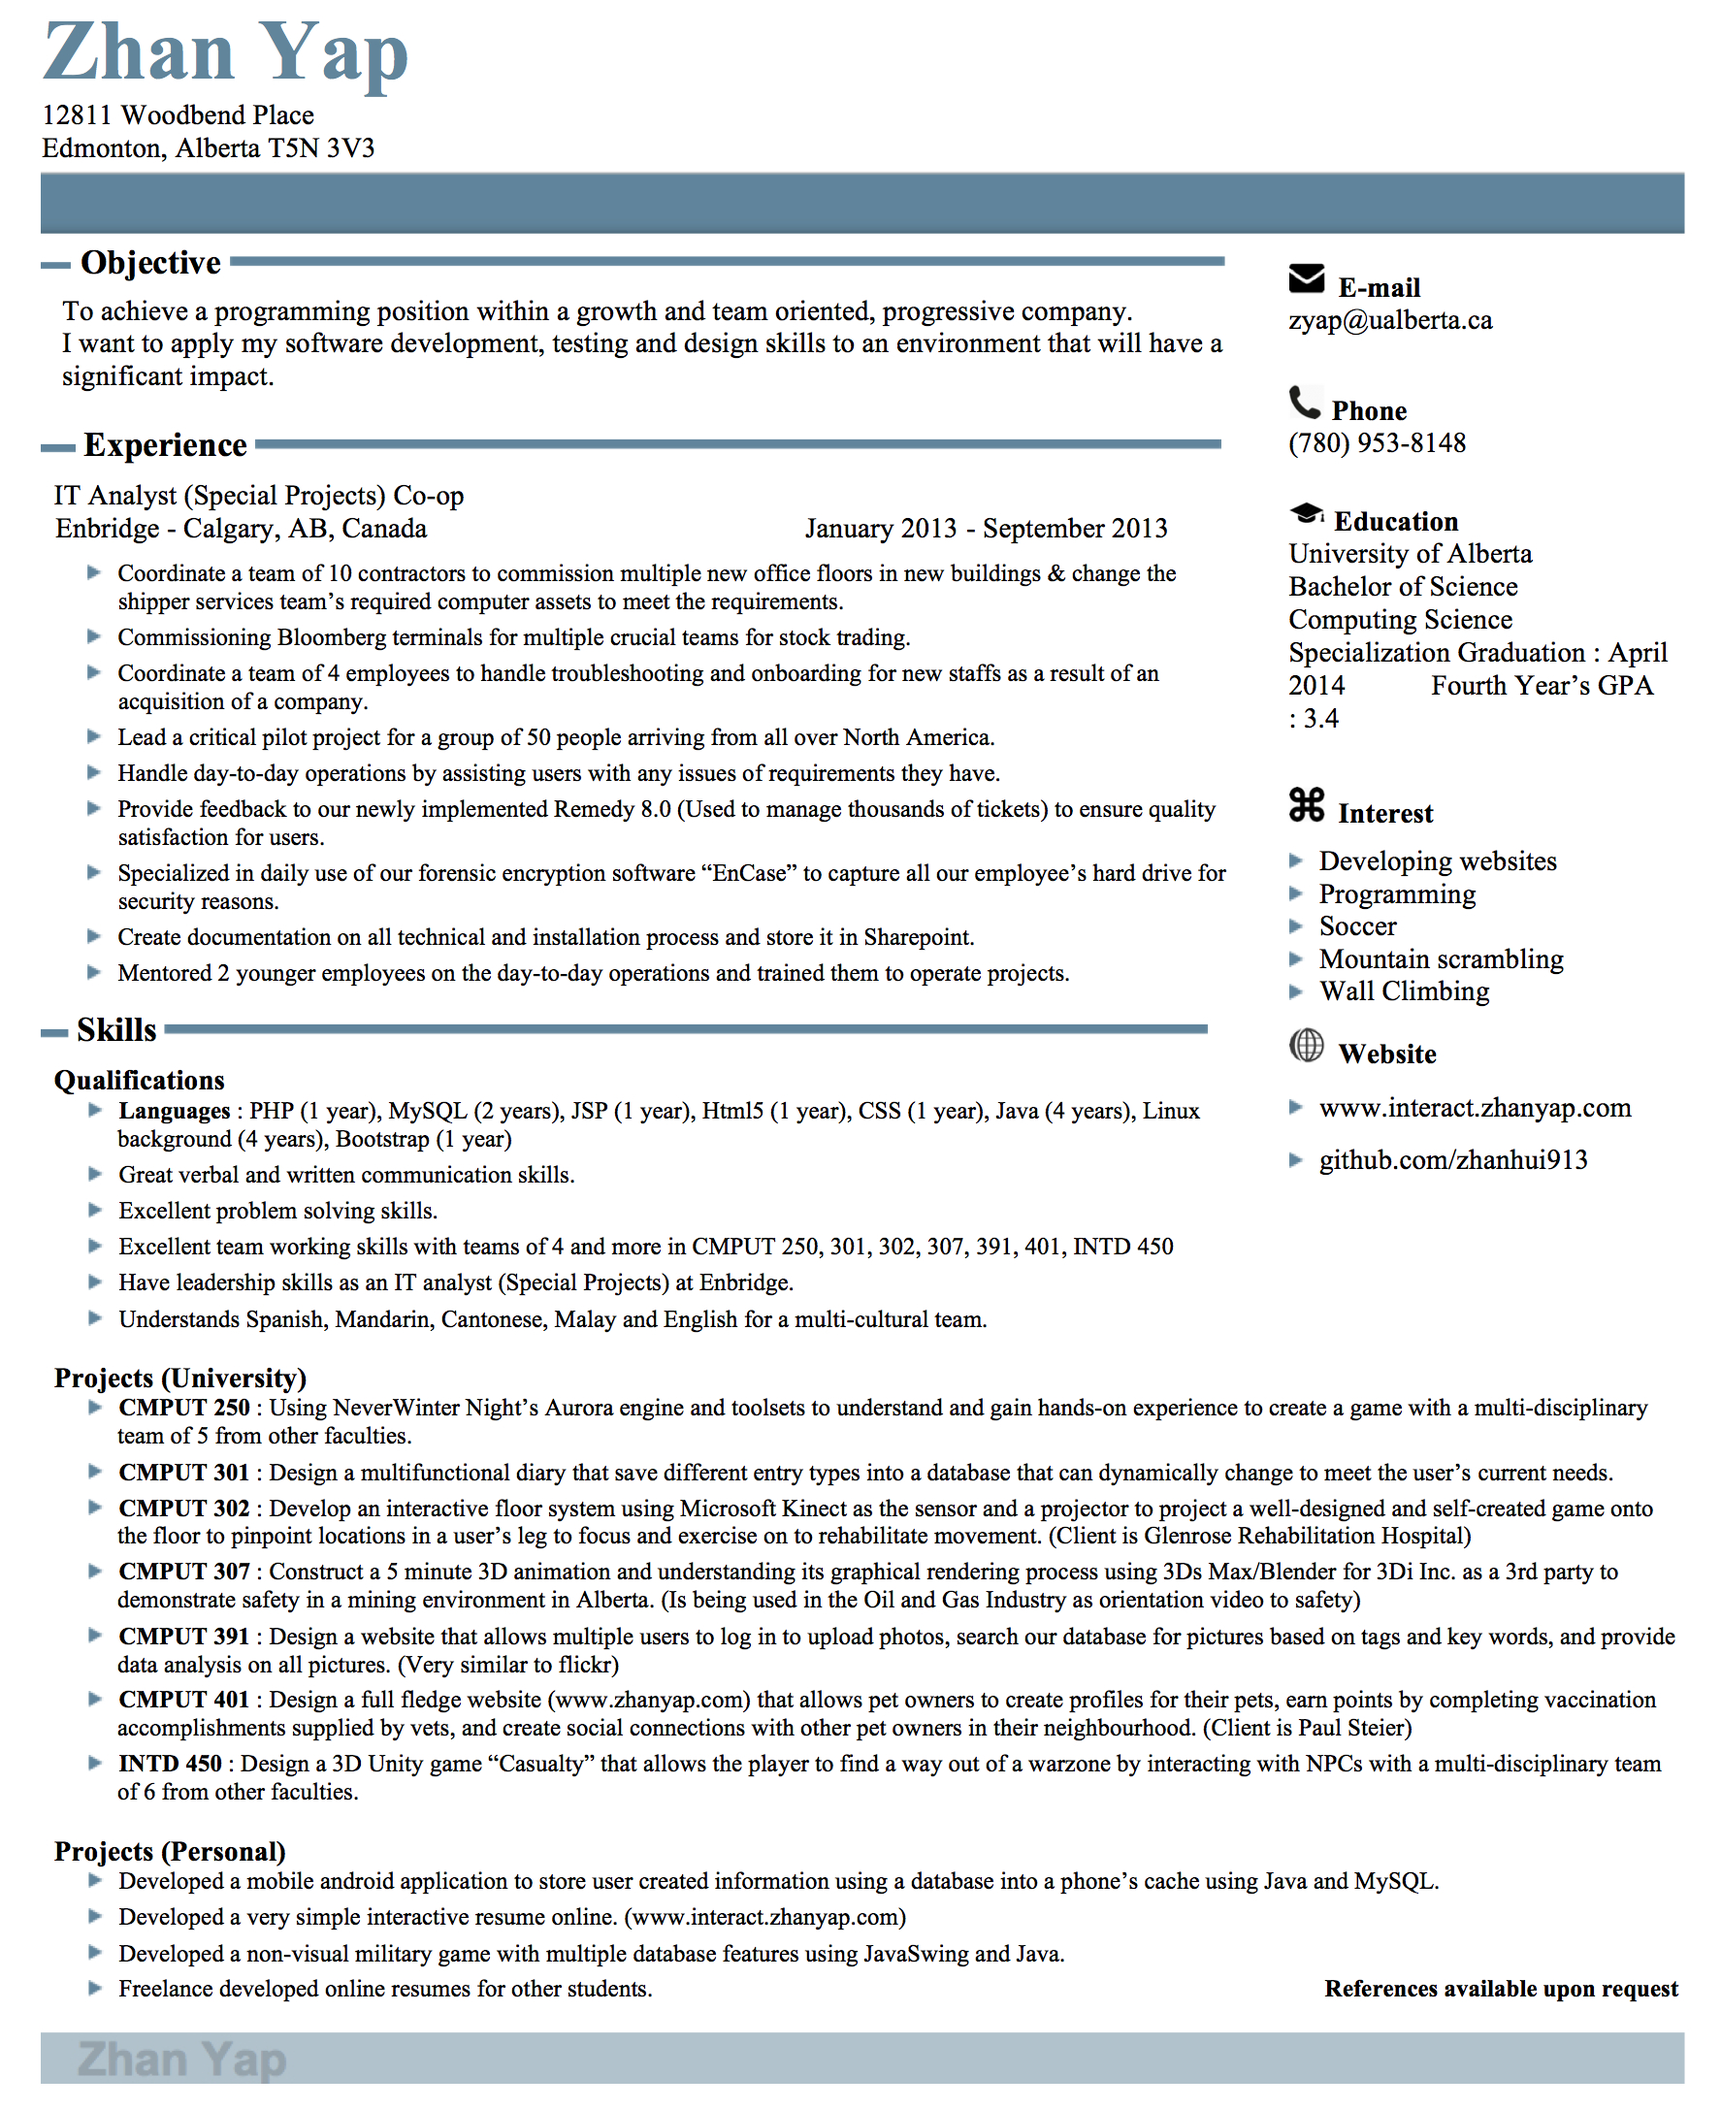
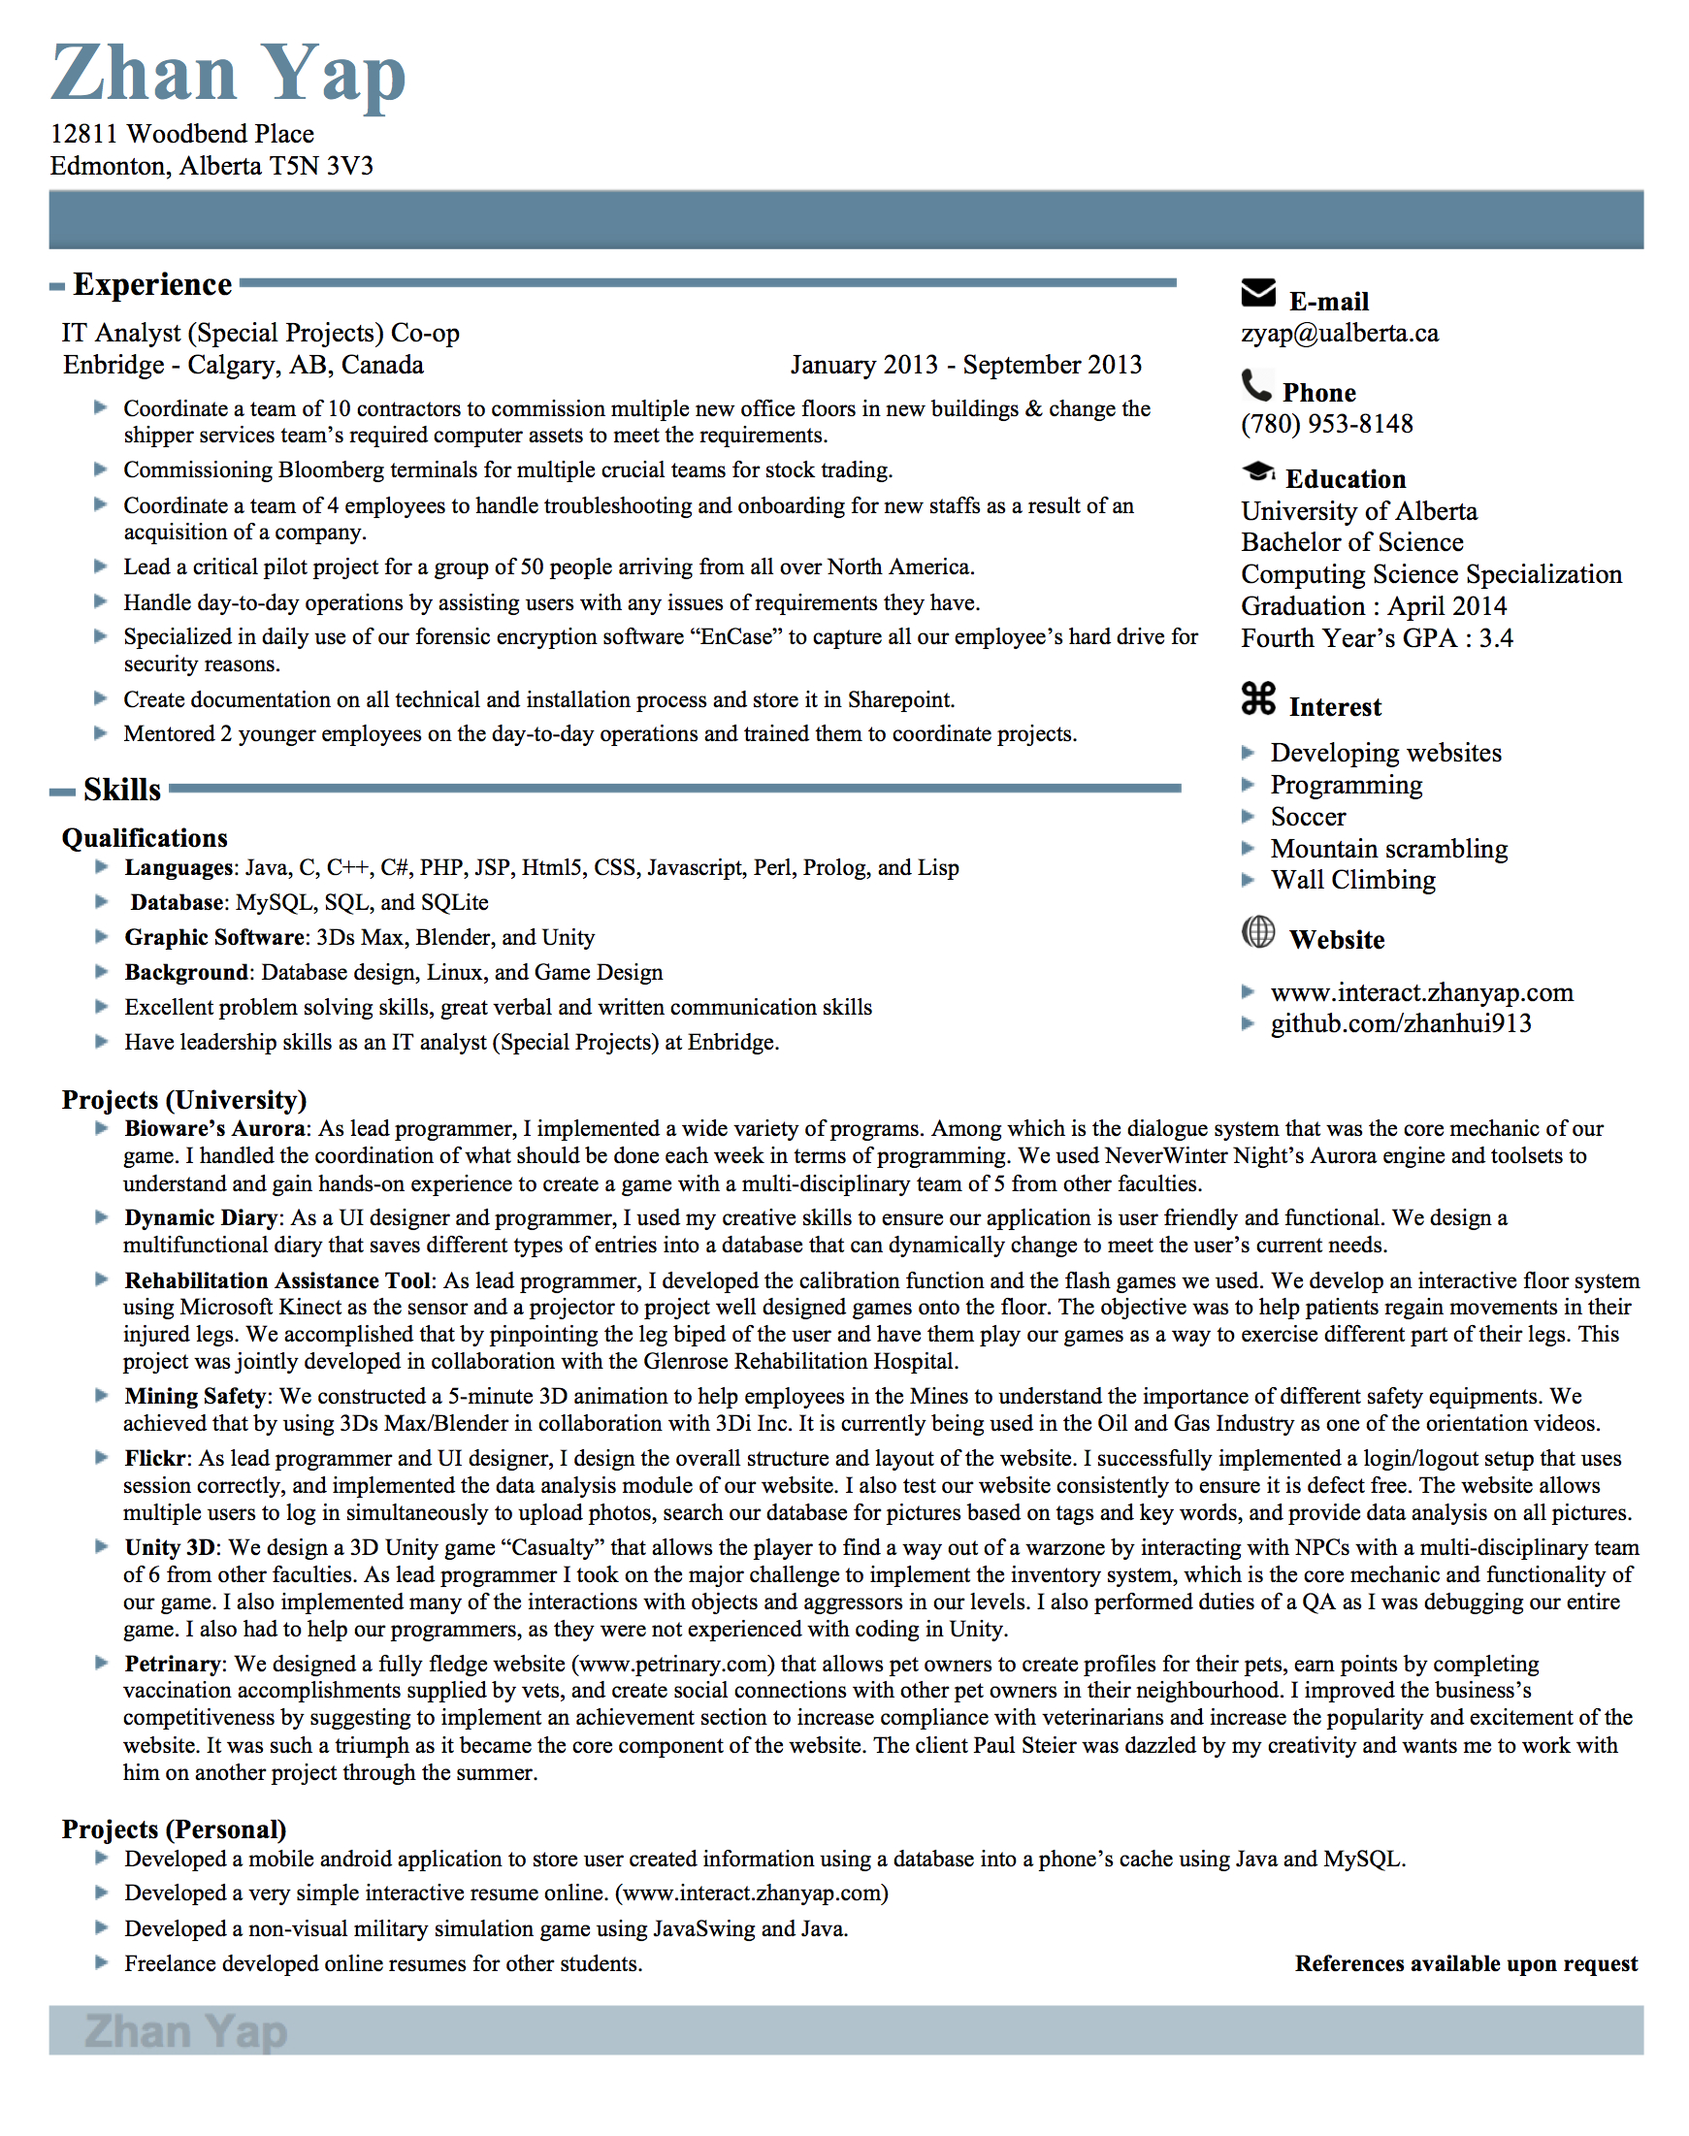
update resume

Changed region(s): [[0.0, 0.0, 0.9925, 1.0]]

diff --git a/resume.html b/resume.html
@@ -206,31 +206,31 @@
                     <h3><Strong>Projects (University)</Strong></h3>
                     <p>
                         <span class="glyphicon glyphicon-chevron-right"></span>
-                       <b><a href="bioware.html">CMPUT 250</a></b> : Using NeverWinter Night’s Aurora engine and toolsets to understand and gain hands-on experience to create a game with a multi-disciplinary team of 5 from other faculties.
+                       <b><a href="bioware.html">Bioware's Aurora</a></b> : As lead programmer, I implemented a wide variety of programs. Among which is the dialogue system that was the core mechanic of our game. I handled the coordination of what should be done each week in terms of programming. We used NeverWinter Night’s Aurora engine and toolsets to understand and gain hands-on experience to create a game with a multi-disciplinary team of 5 from other faculties. 
                     </p>      
                     <p>
                         <span class="glyphicon glyphicon-chevron-right"></span>
-                       <b><a href="diary.html">CMPUT 301</a></b> : Design a multifunctional diary that save different entry types into a database that can dynamically change to meet the user’s current needs. 
+                       <b><a href="diary.html">Dynamic Diary</a></b> : As a UI designer and programmer, I used my creative skills to ensure our application is user friendly and functional. We design a multifunctional diary that saves different types of entries into a database that can dynamically change to meet the user’s current needs. 
                     </p>      
                     <p>
                         <span class="glyphicon glyphicon-chevron-right"></span>
-                       <b><a href="kinect.html">CMPUT 302</a></b> : Develop an interactive floor system using Microsoft Kinect as the sensor and a projector to project a well-designed and self-created game onto the floor to pinpoint locations in a user’s leg to focus and exercise on to rehabilitate movement. (Client is Glenrose Rehabilitation Hospital)
+                       <b><a href="kinect.html">Rehabilitation Assistance Tool</a></b> : As lead programmer, I developed the calibration function and the flash games we used. We develop an interactive floor system using Microsoft Kinect as the sensor and a projector to project well designed games onto the floor. The objective was to help patients regain movements in their injured legs. We accomplished that by pinpointing the leg biped of the user and have them play our games as a way to exercise different part of their legs. This project was jointly developed in collaboration with the Glenrose Rehabilitation Hospital. 
                     </p>      
                     <p>
                         <span class="glyphicon glyphicon-chevron-right"></span>
-                       <b><a href="3di.html">CMPUT 307</a></b> : Construct a 5 minute 3D animation and understanding its graphical rendering process using 3Ds Max/Blender for 3Di Inc. as a 3rd party to demonstrate safety in a mining environment in Alberta. (Is being used in the Oil and Gas Industry as orientation video to safety)
+                       <b><a href="3di.html">Mining Safety</a></b> : We constructed a 5-minute 3D animation to help employees in the Mines to understand the importance of different safety equipments. We achieved that by using 3Ds Max/Blender in collaboration with 3Di Inc. It is currently being used in the Oil and Gas Industry as one of the orientation videos.
                     </p>      
                     <p>
                         <span class="glyphicon glyphicon-chevron-right"></span>
-                       <b><a href="flickr.html">CMPUT 391</a></b> : Design a website that allows multiple users to log in to upload photos, search our database for pictures based on tags and key words, and provide data analysis on all pictures. (Very similar to flickr)
+                       <b><a href="flickr.html">Flickr</a></b> : As lead programmer and UI designer, I design the overall structure and layout of the website. I successfully implemented a login/logout setup that uses session correctly, and implemented the data analysis module of our website. I also test our website consistently to ensure it is defect free. The website allows multiple users to log in simultaneously to upload photos, search our database for pictures based on tags and key words, and provide data analysis on all pictures.
                     </p>      
                     <p>
                         <span class="glyphicon glyphicon-chevron-right"></span>
-                       <b><a href="petrinary.html">CMPUT 401</a></b> : Design a full fledge website (www.zhanyap.com) that allows pet owners to create profiles for their pets, earn points by completing vaccination accomplishments supplied by vets, and create social connections with other pet owners in their neighbourhood. (Client is Paul Steier) 
+                       <b><a href="petrinary.html">Casualty</a></b> : We design a 3D Unity game “Casualty” that allows the player to find a way out of a warzone by interacting with NPCs with a multi-disciplinary team of 6 from other faculties. As lead programmer I took on the major challenge to implement the inventory system, which is the core mechanic and functionality of our game. I also implemented many of the interactions with objects and aggressors in our levels. I also performed duties of a QA as I was debugging our entire game. I also had to help our programmers, as they were not experienced with coding in Unity.
                     </p>      
                     <p>
                         <span class="glyphicon glyphicon-chevron-right"></span>
-                       <b><a href="multimedia.html">INTD 450</a></b> : Design a 3D Unity game “Casualty” that allows the player to find a way out of a warzone by interacting with NPCs with a multi-disciplinary team of 6 from other faculties.
+                       <b><a href="multimedia.html">Petrinary</a></b> : We designed a fully fledge website (www.petrinary.com) that allows pet owners to create profiles for their pets, earn points by completing vaccination accomplishments supplied by vets, and create social connections with other pet owners in their neighbourhood. I improved the business’s competitiveness by suggesting to implement an achievement section to increase compliance with veterinarians and increase the popularity and excitement of the website. It was such a triumph as it became the core component of the website. The client Paul Steier was dazzled by my creativity and wants me to work with him on another project through the summer.
                     </p>      
                     <br>
                      <h3><Strong>Projects (Personal)</Strong></h3>

diff --git a/petrinary.html b/petrinary.html
@@ -92,14 +92,25 @@
         <div class="row">
             <div class="box">
                 <div class="col-lg-12">
+                    <div class="flex-video widescreen">
+                        <iframe  src="//www.youtube.com/embed/Rl_ky4Bml1o" frameborder="0" allowfullscreen></iframe>
+                    </div>
+                </div>
+            </div>  
+        </div>
+
+
+        <div class="row">
+            <div class="box">
+                <div class="col-lg-12">
                     <hr>
                     <h2 class="intro-text text-center">Our <strong>Client</client></h2>
                     <hr>
                 </div>
-                <div class="col-md-6">
+                <div class="col-md-4">
                     <img class="img-thumbnail" src="img/Paul Steier.jpg" alt="">
                 </div>
-                <div class="col-md-6 text-center">
+                <div class="col-md-8 text-center">
                     <h3>Paul Steier</h3>
                     <h3><small>Producer at StyleBox Media</small></h3>
                 </div>

diff --git a/contact.html b/contact.html
@@ -82,7 +82,7 @@
                 </div>
                 <div class="col-md-4">
                     <p>Phone: <strong>780-953-8148</strong></p>
-                    <p>Email: <strong>feedback@petrinary.com</strong></p>
+                    <p>Email: <strong>zyap@ualberta.ca</strong></p>
                 </div>
                 <div class="clearfix"></div>
             </div>
@@ -95,7 +95,7 @@
                     <h2 class="intro-text text-center">Contact <strong>form</strong>
                     </h2>
                     <hr>
-                    <p>This contact form is just the form elements, it is not a working form. You will have to make the form work by yourself, or take it out if you can't figure out how to make it work.</p>
+                    <p>This doesnt work yet, just email me at zyap@ualberta.ca</p>
                     <form role="form">
                         <div class="row">
                             <div class="form-group col-lg-4">
